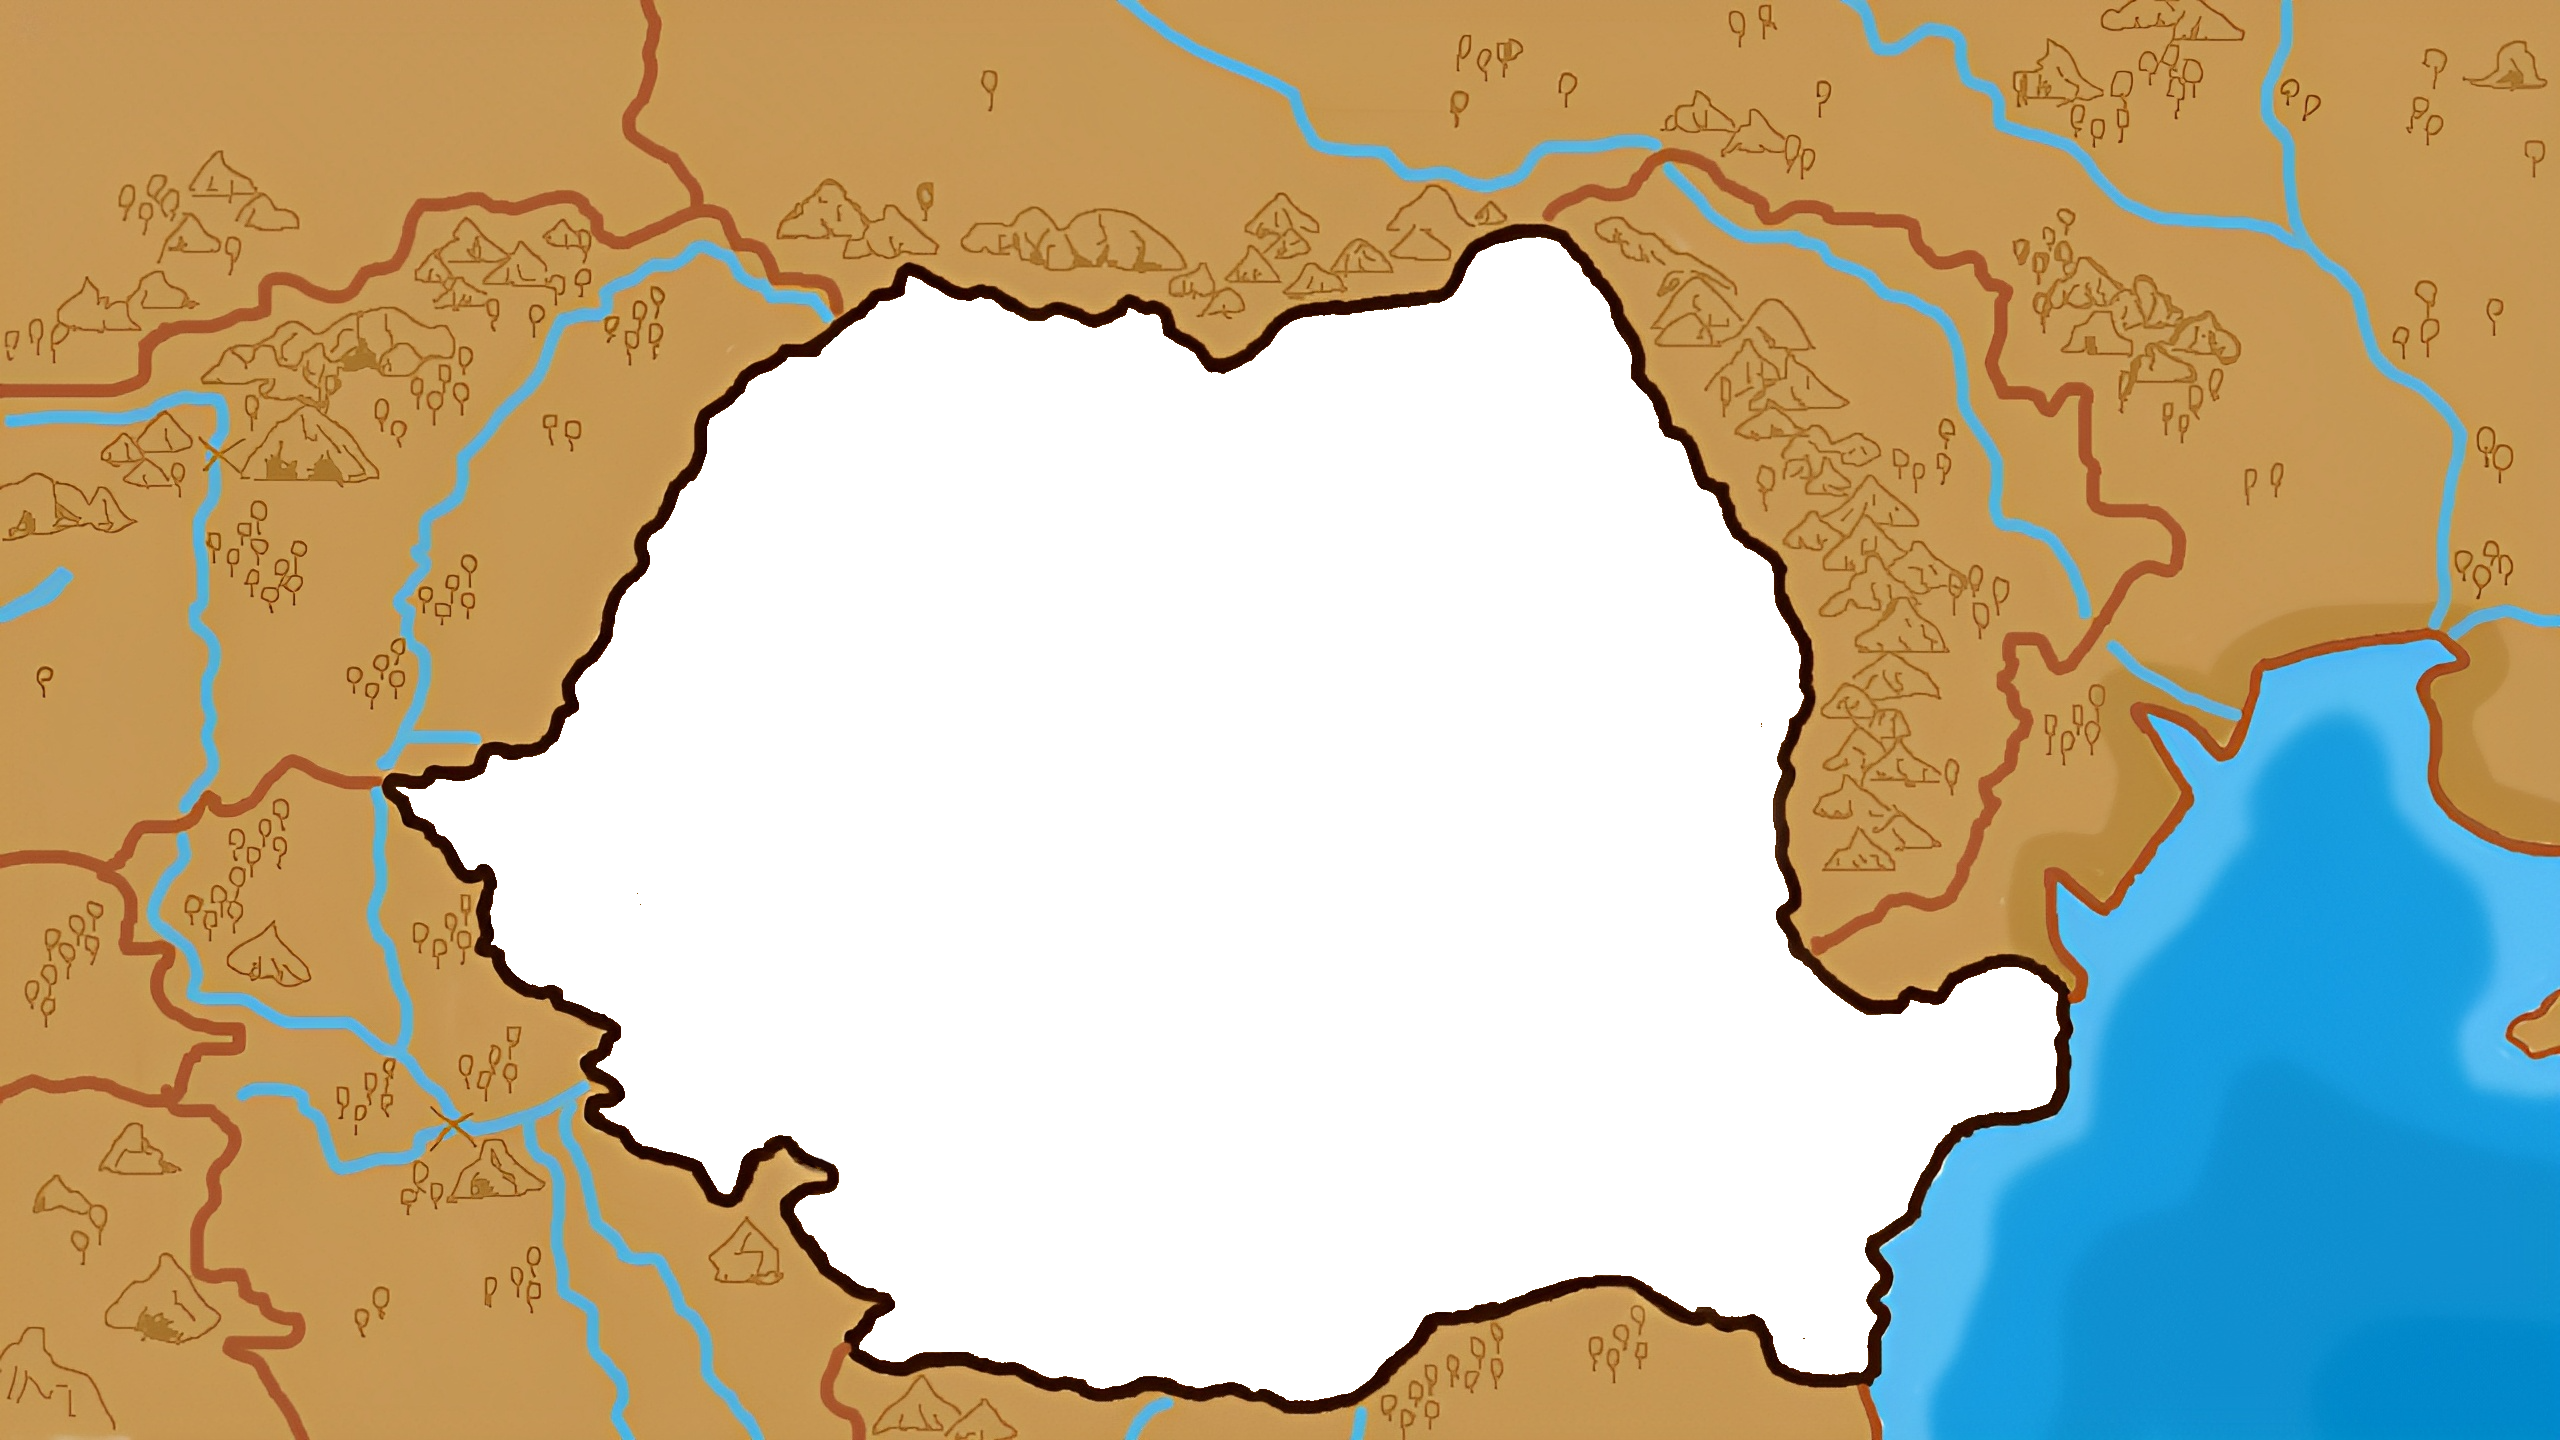
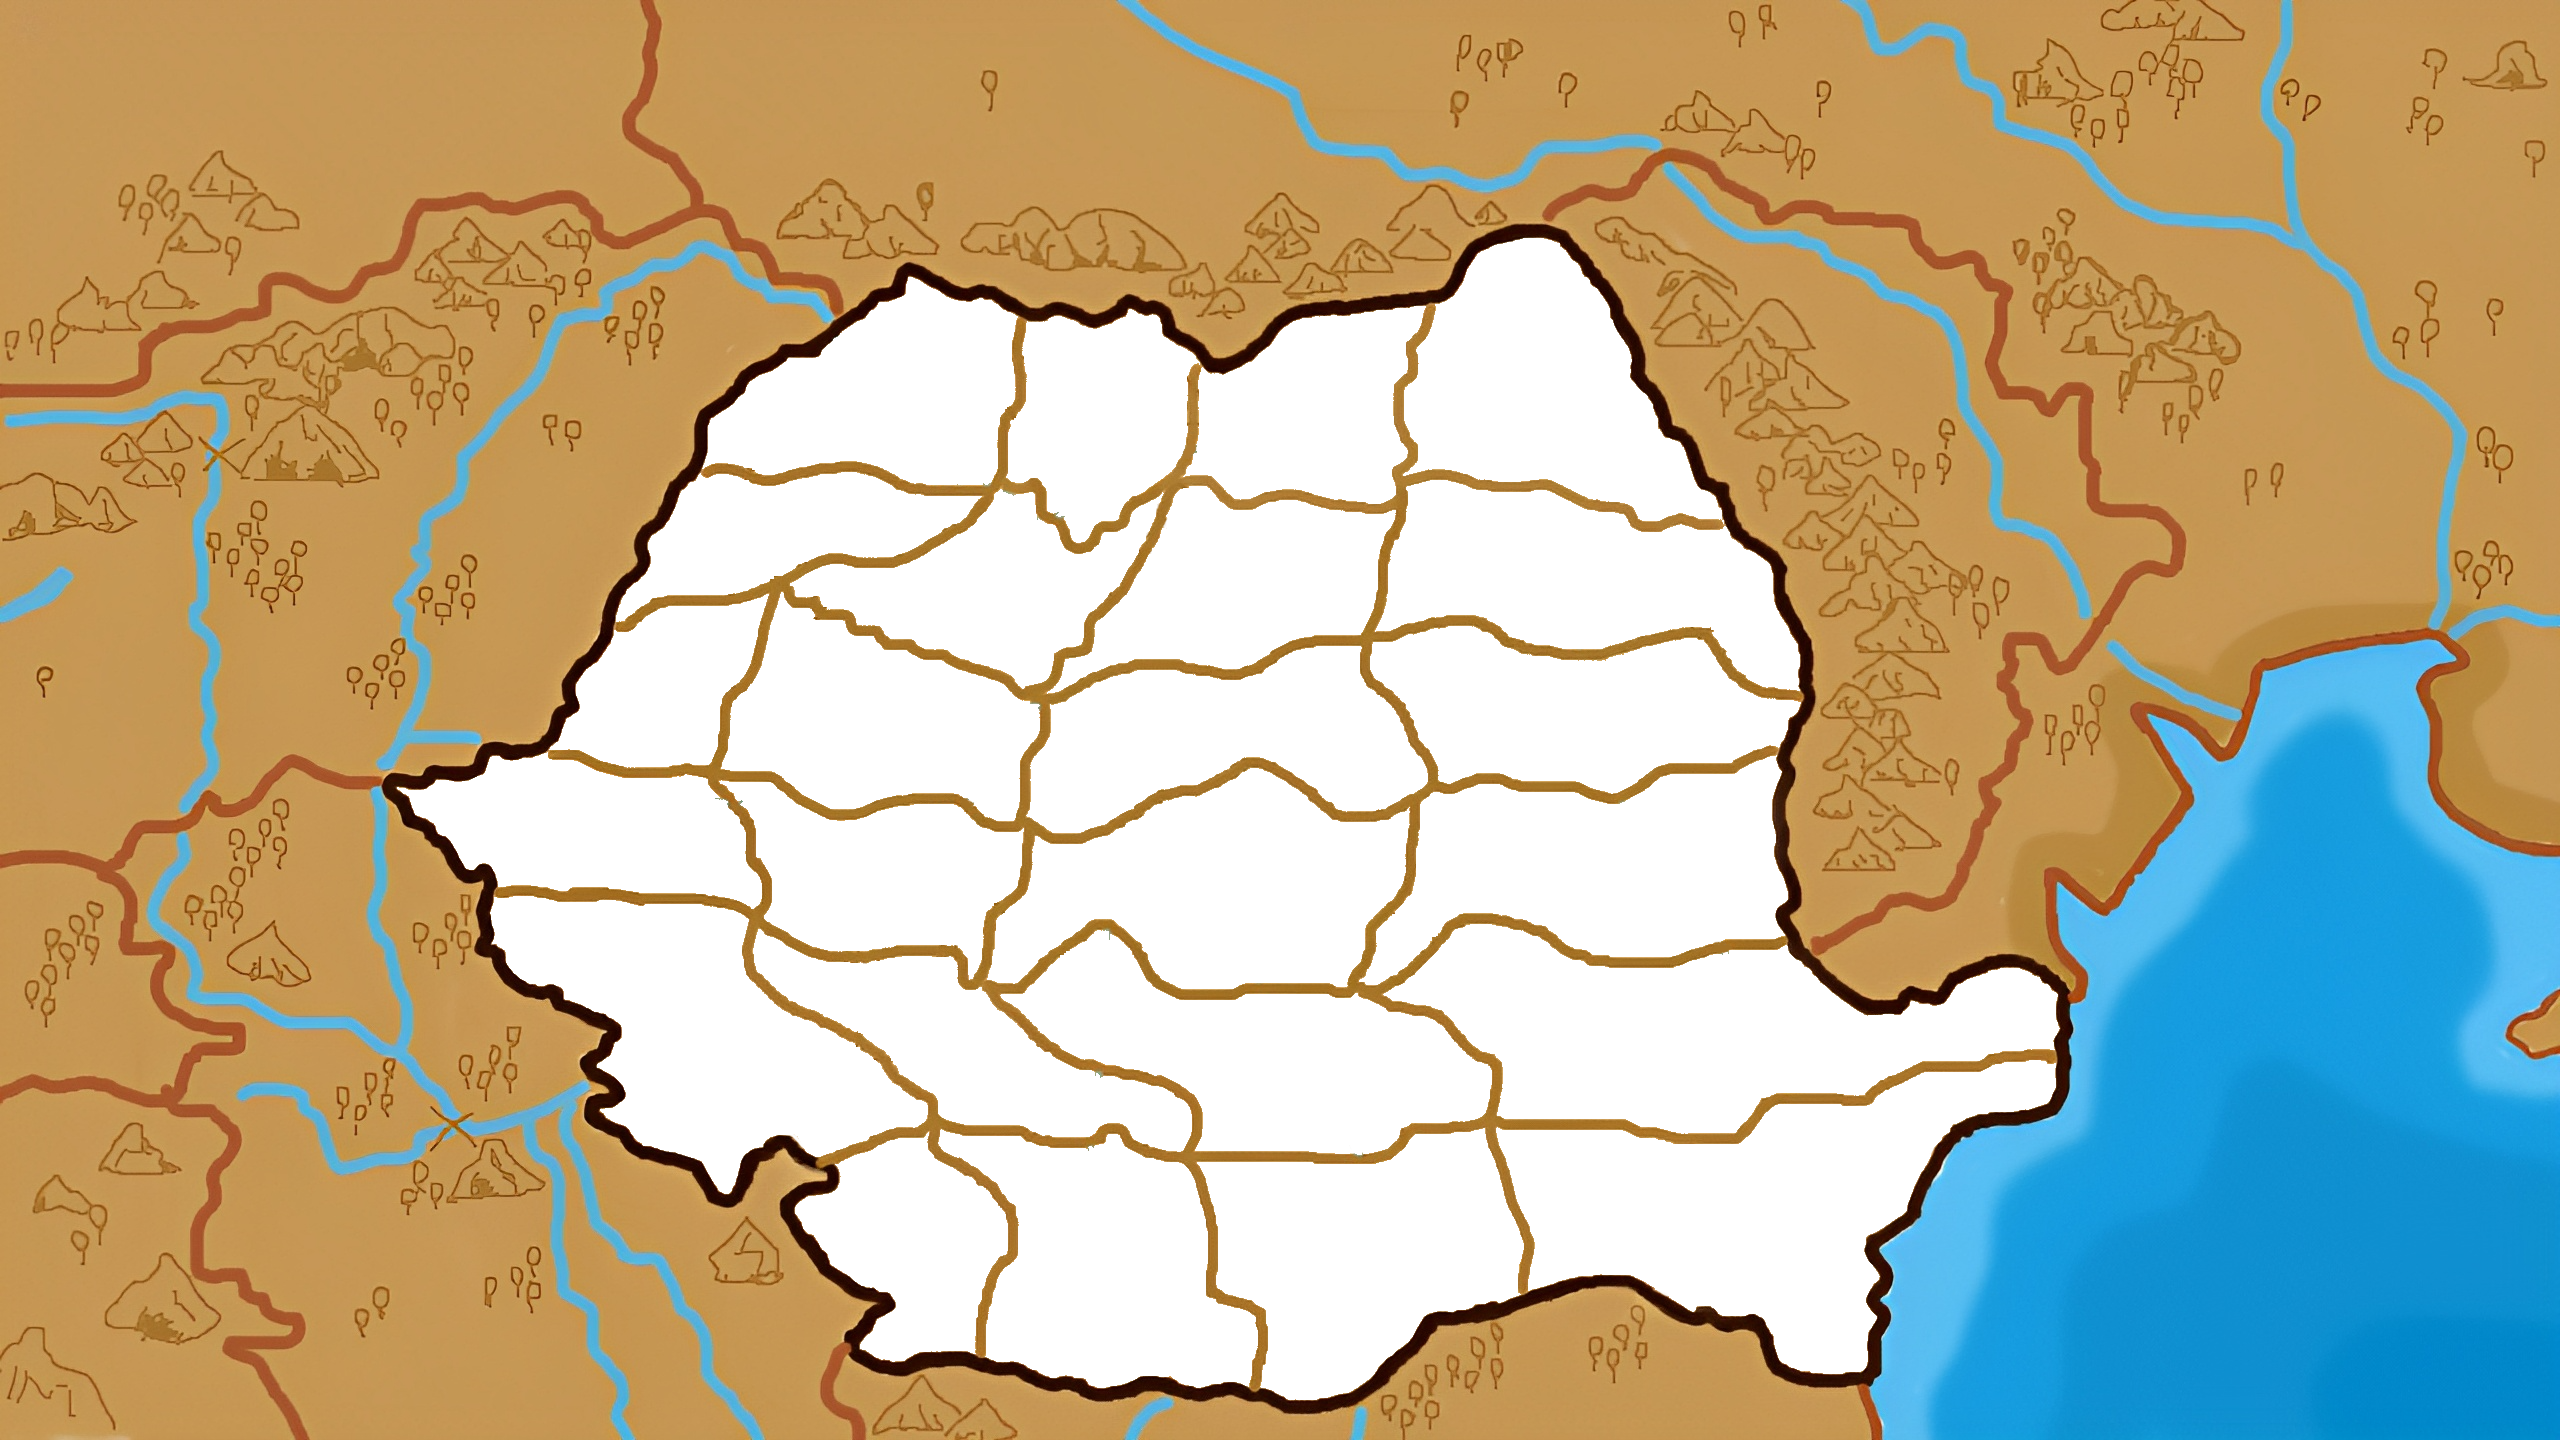
Testing setting masks for the territoies in Board Class

diff --git a/TriviadorClient/TriviadorClient/src/Board.cpp b/TriviadorClient/TriviadorClient/src/Board.cpp
@@ -18,32 +18,42 @@ const std::optional<Territory>& Board::operator[](Position pos) const
 	return m_board[line * kWidth + column];
 }
 
-
-void Board::SetCoordinatesAndSize(uint16_t xPosition, uint16_t yPosition, uint16_t rectangularSize)
+void Board::SetMasksForFourPlayersGame()
 {
-	uint16_t xPos;
-	for (size_t line = 0; line < kHeight; line++)
+	/*QPixmap auxMask;
+	for (size_t line = 0; line < kWidth; line++)
 	{
-		xPos = xPosition;
-		for (size_t column = 0; column < kWidth; column++)
+		for (size_t column = 0; column < kHeight; column++)
 		{
-			m_board[line * kWidth + column]->SetRectangularCoordinates(xPos, yPosition);
-			m_board[line * kWidth + column]->SetRectangularSize(rectangularSize, rectangularSize);
-
-			xPos += rectangularSize;
+			QString imageLocation = "../TriviadorClient/resource/map4players/";
+			imageLocation += QString::number(line) + QString::number(column) + ".png";
+			m_board[line * kWidth + column]->setMask((imageLocation).mask());
 		}
-		yPosition += rectangularSize;
-	}
-}
-
-void Board::PrintBoard(QPaintDevice* device)
-{
-	QPainter painter(device);
-	painter.setPen(QColor(0, 0, 0));
-	for (size_t i = 0; i < kSize; i++)
-	{
-		painter.drawRect(m_board[i]->GetRectangular());
-	}
+	}*/
+	m_board[0]->setMask(QPixmap("../TriviadorClient/resource/map4players/00.png").mask());
+	m_board[1]->setMask(QPixmap("../TriviadorClient/resource/map4players/01.png").mask());
+	m_board[2]->setMask(QPixmap("../TriviadorClient/resource/map4players/02.png").mask());
+	m_board[3]->setMask(QPixmap("../TriviadorClient/resource/map4players/03.png").mask());
+	m_board[4]->setMask(QPixmap("../TriviadorClient/resource/map4players/10.png").mask());
+	m_board[5]->setMask(QPixmap("../TriviadorClient/resource/map4players/11.png").mask());
+	m_board[6]->setMask(QPixmap("../TriviadorClient/resource/map4players/12.png").mask());
+	m_board[7]->setMask(QPixmap("../TriviadorClient/resource/map4players/13.png").mask());
+	m_board[8]->setMask(QPixmap("../TriviadorClient/resource/map4players/20.png").mask());
+	m_board[9]->setMask(QPixmap("../TriviadorClient/resource/map4players/21.png").mask());
+	m_board[10]->setMask(QPixmap("../TriviadorClient/resource/map4players/22.png").mask());
+	m_board[11]->setMask(QPixmap("../TriviadorClient/resource/map4players/23.png").mask());
+	m_board[12]->setMask(QPixmap("../TriviadorClient/resource/map4players/30.png").mask());
+	m_board[13]->setMask(QPixmap("../TriviadorClient/resource/map4players/31.png").mask());
+	m_board[14]->setMask(QPixmap("../TriviadorClient/resource/map4players/32.png").mask());
+	m_board[15]->setMask(QPixmap("../TriviadorClient/resource/map4players/33.png").mask());
+	m_board[16]->setMask(QPixmap("../TriviadorClient/resource/map4players/40.png").mask());
+	m_board[17]->setMask(QPixmap("../TriviadorClient/resource/map4players/41.png").mask());
+	m_board[18]->setMask(QPixmap("../TriviadorClient/resource/map4players/42.png").mask());
+	m_board[19]->setMask(QPixmap("../TriviadorClient/resource/map4players/43.png").mask());
+	m_board[20]->setMask(QPixmap("../TriviadorClient/resource/map4players/50.png").mask());
+	m_board[21]->setMask(QPixmap("../TriviadorClient/resource/map4players/51.png").mask());
+	m_board[22]->setMask(QPixmap("../TriviadorClient/resource/map4players/52.png").mask());
+	m_board[23]->setMask(QPixmap("../TriviadorClient/resource/map4players/53.png").mask());
 }
 
 std::optional<Territory>& Board::operator[](Position pos)

diff --git a/TriviadorClient/TriviadorClient/src/Game.cpp b/TriviadorClient/TriviadorClient/src/Game.cpp
@@ -39,13 +39,14 @@ Game::Game(const Player& player1, const Player& player2, const Player& player3, 
 
 Game::Game(const Player& player1, const Player& player2, const Player& player3, const Player& player4, QWidget* mainMenu)
 	: m_mainMenu(mainMenu)
-	, m_board(6, 4)
+	, m_board(4, 6)
 	, m_players{ player1, player2, player3, player4 }
 	, m_gameRounds(4)
   , m_questionWindow(QuestionWindow(this))
 {
 	ui.setupUi(this);
 	SetBackground();
+	m_board.SetMasksForFourPlayersGame();
 	m_mainMenu->hide();
 	//ShowQuestion(QuestionType::NumericalAnswer);
 }
@@ -77,7 +78,7 @@ void Game::paintEvent(QPaintEvent* paintEvent)
 {
 	QPainter painter(this);
 	painter.drawPixmap(0, 0, m_background);
-	m_board.PrintBoard(this);
+	//m_board.PrintBoard(this);
 }
 
 void Game::on_exitButton_clicked()

diff --git a/TriviadorClient/TriviadorClient/src/Territory.cpp b/TriviadorClient/TriviadorClient/src/Territory.cpp
@@ -30,7 +30,6 @@ Territory::Territory(Territory&& territory) noexcept
     *this = std::move(territory);
 }
 
-
 Territory& Territory::operator=(const Territory& territory)
 {
     m_owner = territory.m_owner;
@@ -44,23 +43,6 @@ Territory& Territory::operator=(Territory&& territory) noexcept
     m_score = territory.m_score;
     new(&territory)Territory;
     return *this;
-}
-
-void Territory::SetRectangularCoordinates(int x, int y)
-{
-    m_rect.setX(x);
-    m_rect.setY(y);
-}
-
-void Territory::SetRectangularSize(int height, int width)
-{
-    m_rect.setWidth(width);
-    m_rect.setHeight(height);
-}
-
-QRect Territory::GetRectangular()
-{
-    return m_rect;
 }
 
 std::ostream& operator<< (std::ostream& out, const Territory& t)

diff --git a/TriviadorClient/TriviadorClient/include/Territory.h b/TriviadorClient/TriviadorClient/include/Territory.h
@@ -1,10 +1,10 @@
 #pragma once
 #include "Player.h"
-#include "qrect.h"
 #include <iostream>
 #include <optional>
+#include <QPushButton>
 
-class Territory
+class Territory : public QPushButton
 {
 public:
     Territory();
@@ -20,10 +20,6 @@ public:
 
     friend std::ostream& operator<< (std::ostream& out, const Territory& t);
 
-    void SetRectangularCoordinates(int x, int y);
-    void SetRectangularSize(int height, int width);
-    QRect GetRectangular();
-
 private:
     const uint16_t kBaseScore = 300;
     const uint16_t kTerritoryScore = 100;
@@ -31,6 +27,5 @@ private:
 private:
     std::optional<Player> m_owner;
     uint16_t m_score;
-    QRect m_rect;
 };
 

diff --git a/TriviadorClient/TriviadorClient/include/Board.h b/TriviadorClient/TriviadorClient/include/Board.h
@@ -3,6 +3,7 @@
 #include <qpainter.h>
 #include <vector>
 #include <optional>
+#include <algorithm>
 
 class Board
 {
@@ -21,10 +22,7 @@ public:
     // Operators:
     friend std::ostream& operator<< (std::ostream& out, const Board& b);
 
-
-    void PrintBoard(QPaintDevice* device);
-    void SetCoordinatesAndSize(uint16_t xPosition, uint16_t yPosition, uint16_t rectangularSize);
-
+    void SetMasksForFourPlayersGame();
 private:
     // Constants:
     const std::size_t kWidth;
